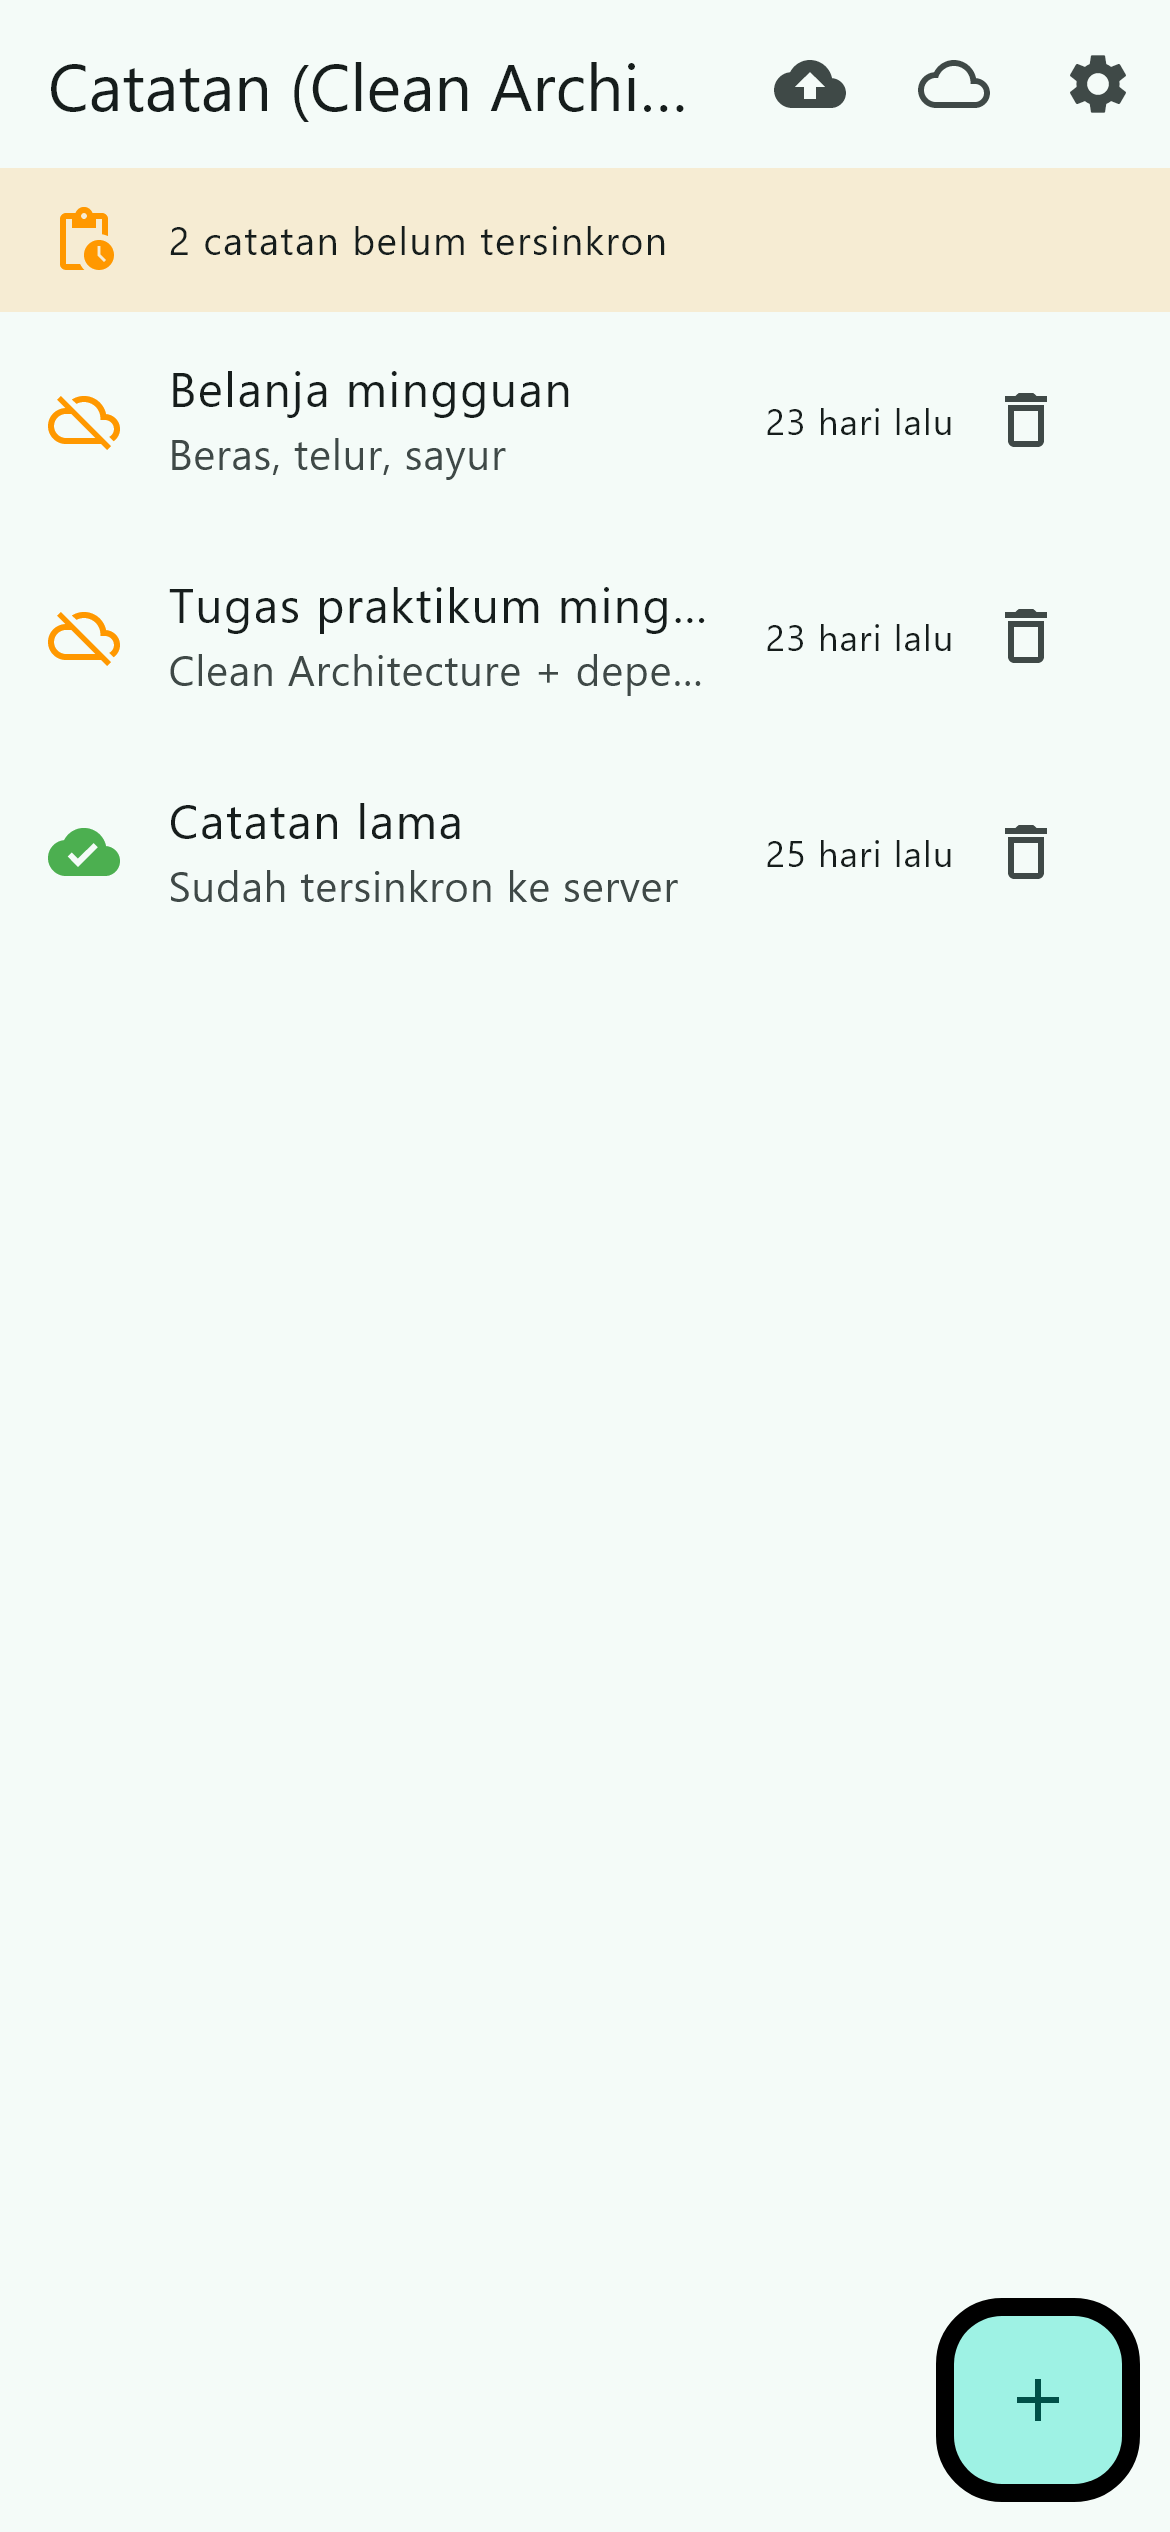
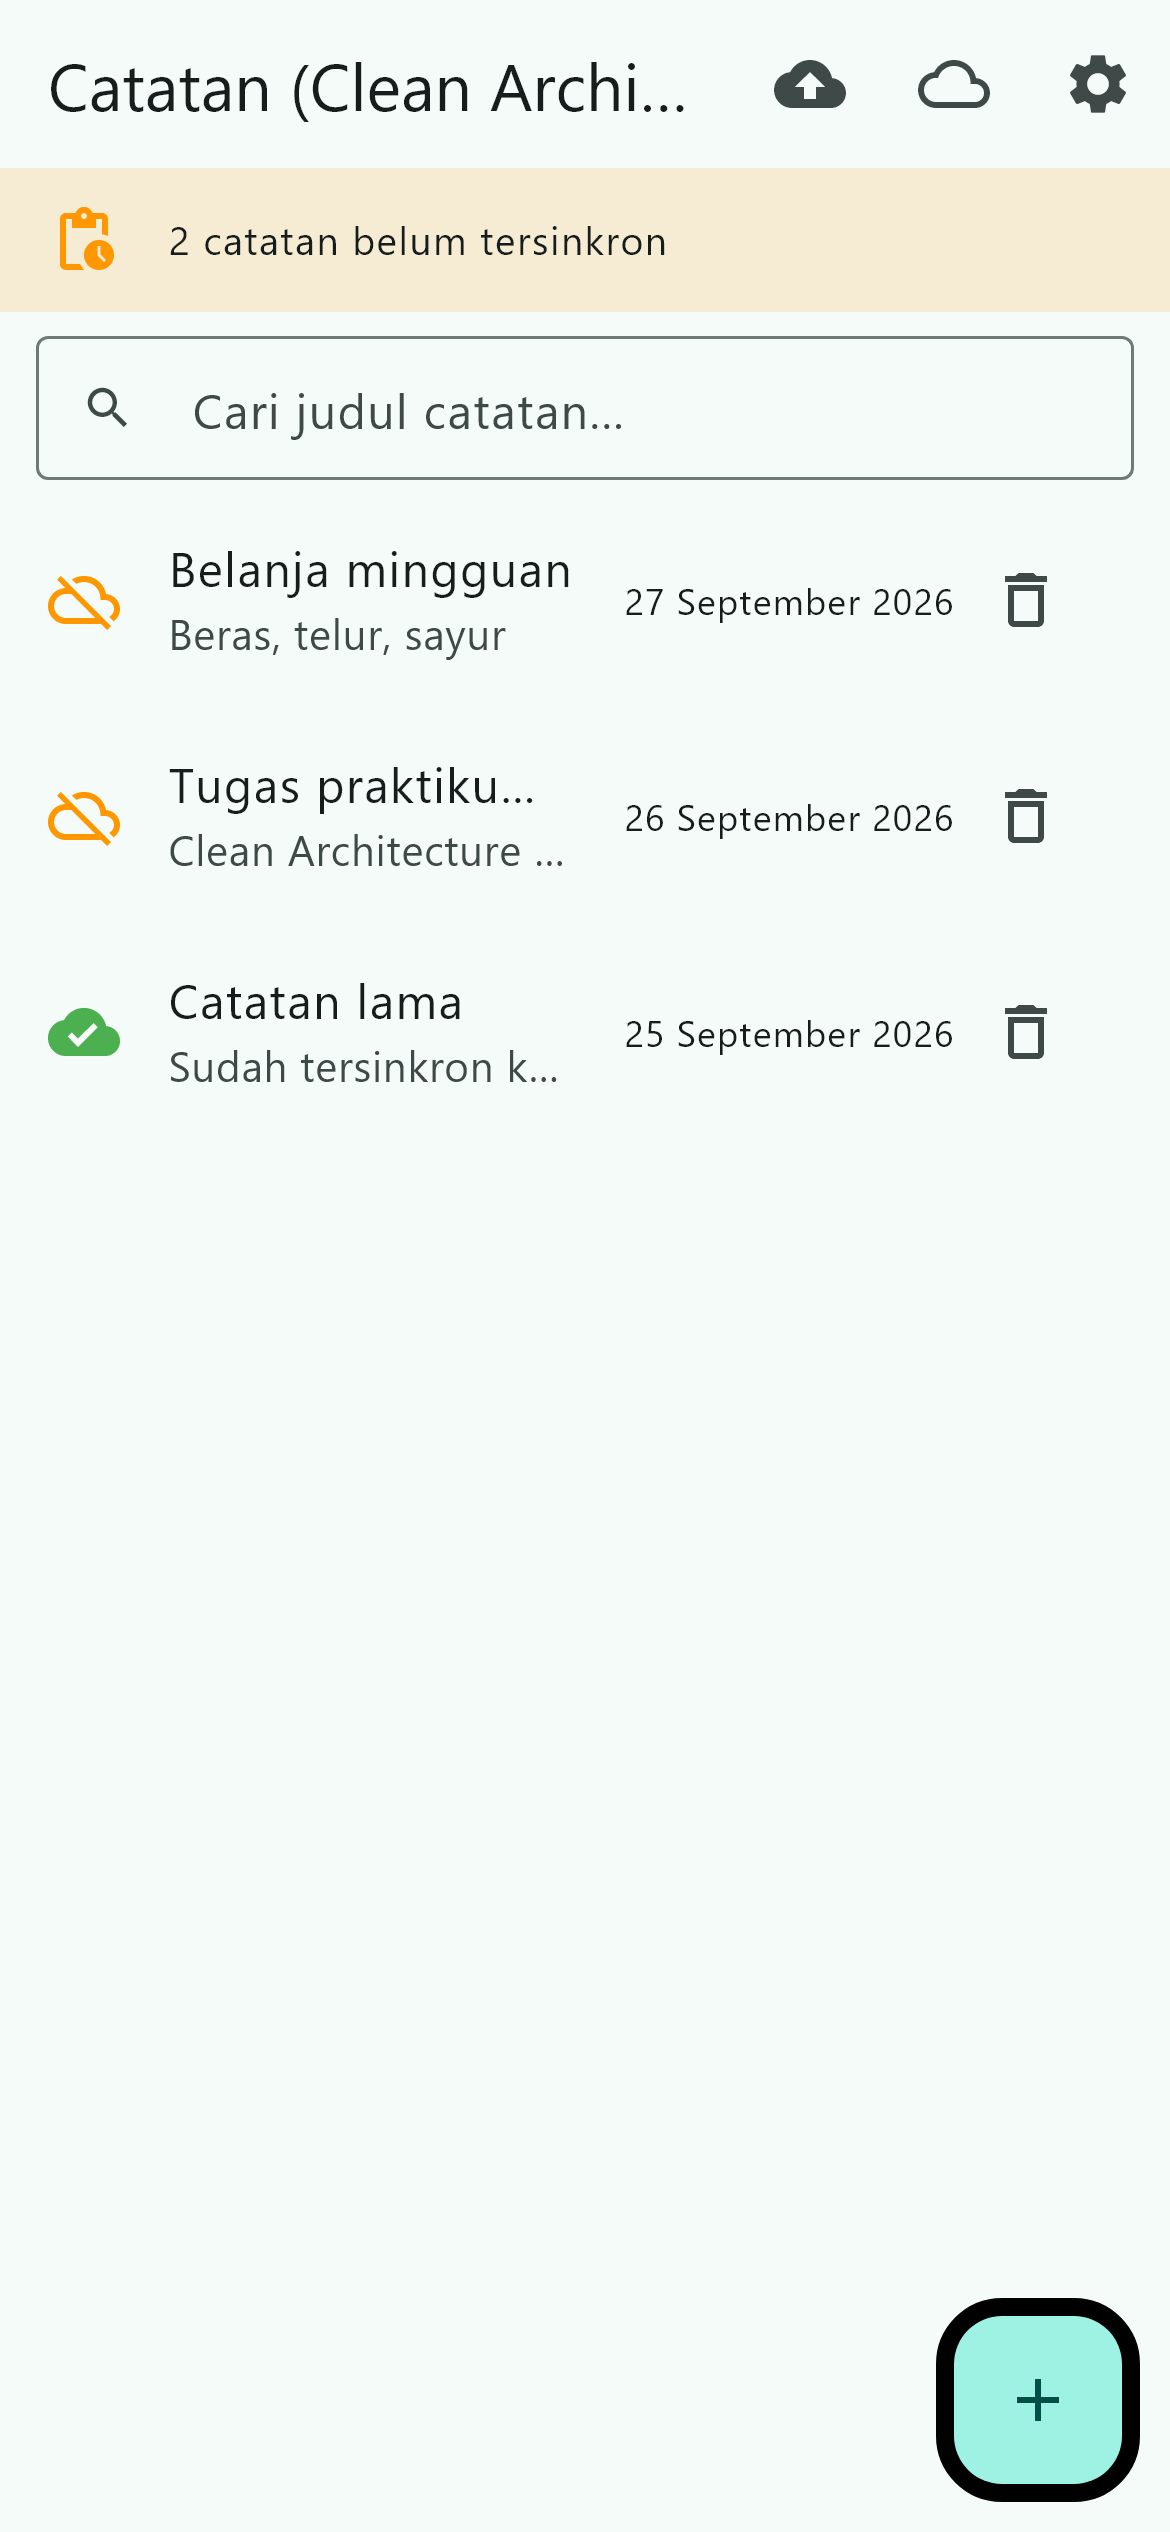
feat(notes): tambah pencarian judul + empty state + test

diff --git a/07-week-7-clean-architecture/clean_notes/lib/features/notes/presentation/pages/notes_page.dart b/07-week-7-clean-architecture/clean_notes/lib/features/notes/presentation/pages/notes_page.dart
@@ -8,13 +8,27 @@ import '../providers/notes_providers.dart';
 import '../widgets/note_tile.dart';
 
 /// Halaman catatan. Tidak ada SQL, tidak ada Dio, tidak ada parsing JSON.
-/// Halaman ini hanya membaca state dari provider.
-class NotesPage extends ConsumerWidget {
+/// Pencarian hanya mengubah state query; filter judul dijalankan use case domain.
+class NotesPage extends ConsumerStatefulWidget {
   const NotesPage({super.key});
 
   @override
-  Widget build(BuildContext context, WidgetRef ref) {
-    final notesAsync = ref.watch(notesProvider);
+  ConsumerState<NotesPage> createState() => _NotesPageState();
+}
+
+class _NotesPageState extends ConsumerState<NotesPage> {
+  final _searchController = TextEditingController();
+
+  @override
+  void dispose() {
+    _searchController.dispose();
+    super.dispose();
+  }
+
+  @override
+  Widget build(BuildContext context) {
+    final notesAsync = ref.watch(filteredNotesProvider);
+    final query = ref.watch(searchQueryProvider);
     final dirtyAsync = ref.watch(dirtyCountProvider);
     final dirtyCount = dirtyAsync.value ?? 0;
 
@@ -52,6 +66,30 @@ class NotesPage extends ConsumerWidget {
       body: Column(
         children: [
           _DirtyBanner(count: dirtyCount),
+          Padding(
+            padding: const EdgeInsets.fromLTRB(12, 8, 12, 4),
+            child: TextField(
+              controller: _searchController,
+              onChanged: (value) =>
+                  ref.read(searchQueryProvider.notifier).setQuery(value),
+              decoration: InputDecoration(
+                hintText: 'Cari judul catatan...',
+                prefixIcon: const Icon(Icons.search),
+                border: const OutlineInputBorder(),
+                isDense: true,
+                suffixIcon: query.isEmpty
+                    ? null
+                    : IconButton(
+                        icon: const Icon(Icons.clear),
+                        tooltip: 'Hapus pencarian',
+                        onPressed: () {
+                          _searchController.clear();
+                          ref.read(searchQueryProvider.notifier).clear();
+                        },
+                      ),
+              ),
+            ),
+          ),
           Expanded(
             child: notesAsync.when(
               loading: () =>
@@ -60,27 +98,31 @@ class NotesPage extends ConsumerWidget {
                 message: '$error',
                 onRetry: () => ref.invalidate(notesProvider),
               ),
-              data: (notes) => notes.isEmpty
-                  ? const EmptyView(
-                      message: 'Belum ada catatan. Tambahkan lewat tombol +.',
-                    )
-                  : ListView.builder(
-                      itemCount: notes.length,
-                      itemBuilder: (context, index) =>
-                          NoteTile(note: notes[index]),
-                    ),
+              data: (notes) {
+                if (notes.isEmpty) {
+                  return EmptyView(
+                    message: query.isEmpty
+                        ? 'Belum ada catatan. Tambahkan lewat tombol +.'
+                        : 'Tidak ada catatan yang cocok dengan "$query".',
+                  );
+                }
+                return ListView.builder(
+                  itemCount: notes.length,
+                  itemBuilder: (context, index) => NoteTile(note: notes[index]),
+                );
+              },
             ),
           ),
         ],
       ),
       floatingActionButton: FloatingActionButton(
-        onPressed: () => _showAddDialog(context, ref),
+        onPressed: () => _showAddDialog(context),
         child: const Icon(Icons.add),
       ),
     );
   }
 
-  void _showAddDialog(BuildContext context, WidgetRef ref) {
+  void _showAddDialog(BuildContext context) {
     final titleController = TextEditingController();
     final bodyController = TextEditingController();
     showDialog(

diff --git a/07-week-7-clean-architecture/clean_notes/test/notes_page_test.dart b/07-week-7-clean-architecture/clean_notes/test/notes_page_test.dart
@@ -1,0 +1,93 @@
+import 'package:clean_notes/core/failures.dart';
+import 'package:clean_notes/features/notes/domain/entities/note.dart';
+import 'package:clean_notes/features/notes/domain/repositories/note_repository.dart';
+import 'package:clean_notes/features/notes/presentation/pages/notes_page.dart';
+import 'package:clean_notes/features/notes/presentation/providers/notes_providers.dart';
+import 'package:flutter/material.dart';
+import 'package:flutter_riverpod/flutter_riverpod.dart';
+import 'package:flutter_test/flutter_test.dart';
+
+class _FakeNoteRepository implements NoteRepository {
+  _FakeNoteRepository(this.items);
+
+  final List<Note> items;
+
+  @override
+  Future<({List<Note> notes, Failure? failure})> fetchNotes() async =>
+      (notes: items, failure: null);
+
+  @override
+  Future<({Note? note, Failure? failure})> fetchNote(int id) async =>
+      (note: null, failure: null);
+
+  @override
+  Future<({Note? note, Failure? failure})> addNote({
+    required String title,
+    String body = '',
+  }) async =>
+      (note: null, failure: null);
+
+  @override
+  Future<({bool deleted, Failure? failure})> deleteNote(int id) async =>
+      (deleted: true, failure: null);
+
+  @override
+  Future<({int count, Failure? failure})> countDirty() async =>
+      (count: 0, failure: null);
+
+  @override
+  Future<({bool synced, Failure? failure})> markAllSynced() async =>
+      (synced: true, failure: null);
+}
+
+Future<void> _pump(WidgetTester tester) async {
+  await tester.pumpWidget(
+    ProviderScope(
+      overrides: [
+        noteRepositoryProvider.overrideWithValue(
+          _FakeNoteRepository([
+            Note(
+              id: 1,
+              title: 'Belanja mingguan',
+              updatedAt: DateTime(2026, 9, 27),
+            ),
+            Note(
+              id: 2,
+              title: 'Tugas kampus',
+              updatedAt: DateTime(2026, 9, 26),
+            ),
+          ]),
+        ),
+      ],
+      child: const MaterialApp(home: NotesPage()),
+    ),
+  );
+  await tester.pumpAndSettle();
+}
+
+void main() {
+  testWidgets('search menampilkan hasil yang cocok', (tester) async {
+    await _pump(tester);
+
+    expect(find.text('Belanja mingguan'), findsOneWidget);
+    expect(find.text('Tugas kampus'), findsOneWidget);
+
+    await tester.enterText(find.byType(TextField), 'belanja');
+    await tester.pumpAndSettle();
+
+    expect(find.text('Belanja mingguan'), findsOneWidget);
+    expect(find.text('Tugas kampus'), findsNothing);
+  });
+
+  testWidgets('search tanpa hasil menampilkan empty state', (tester) async {
+    await _pump(tester);
+
+    await tester.enterText(find.byType(TextField), 'zzz-tak-ada');
+    await tester.pumpAndSettle();
+
+    expect(
+      find.text('Tidak ada catatan yang cocok dengan "zzz-tak-ada".'),
+      findsOneWidget,
+    );
+  });
+}

diff --git a/07-week-7-clean-architecture/clean_notes/lib/features/notes/presentation/providers/notes_providers.dart b/07-week-7-clean-architecture/clean_notes/lib/features/notes/presentation/providers/notes_providers.dart
@@ -8,6 +8,7 @@ import '../../domain/repositories/note_repository.dart';
 import '../../domain/usecases/add_note.dart';
 import '../../domain/usecases/delete_note.dart';
 import '../../domain/usecases/get_notes.dart';
+import '../../domain/usecases/search_notes.dart';
 import '../../domain/usecases/sync_notes.dart';
 
 // ===== Data layer: satu-satunya tempat instantiate implementasi =====
@@ -31,6 +32,8 @@ final deleteNoteProvider = Provider<DeleteNote>((ref) {
 final syncNotesProvider = Provider<SyncNotes>((ref) {
   return SyncNotes(ref.watch(noteRepositoryProvider));
 });
+
+final searchNotesProvider = Provider<SearchNotes>((ref) => const SearchNotes());
 
 // ===== Presentation layer: state untuk UI =====
 
@@ -86,6 +89,30 @@ final notesProvider = AsyncNotifierProvider<NotesNotifier, List<Note>>(
   NotesNotifier.new,
   retry: (retryCount, error) => null,
 );
+
+/// Query pencarian (state UI).
+final searchQueryProvider =
+    NotifierProvider<SearchQueryNotifier, String>(SearchQueryNotifier.new);
+
+class SearchQueryNotifier extends Notifier<String> {
+  @override
+  String build() => '';
+
+  void setQuery(String value) => state = value;
+
+  void clear() => state = '';
+}
+
+/// Daftar catatan yang sudah difilter. Diturunkan dari notesProvider,
+/// sehingga tidak ada query database ulang saat pengguna mengetik.
+final filteredNotesProvider = Provider<AsyncValue<List<Note>>>((ref) {
+  final notesAsync = ref.watch(notesProvider);
+  final query = ref.watch(searchQueryProvider);
+  final search = ref.watch(searchNotesProvider);
+  return notesAsync.whenData(
+    (notes) => search(notes: notes, query: query),
+  );
+});
 
 /// Jumlah catatan yang belum tersinkron (badge antrean).
 final dirtyCountProvider = FutureProvider<int>((ref) async {

diff --git a/07-week-7-clean-architecture/clean_notes/test/screenshots_test.dart b/07-week-7-clean-architecture/clean_notes/test/screenshots_test.dart
@@ -214,4 +214,46 @@ void main() {
       'after_settings.png',
     );
   }, skip: !_generate);
+
+  testWidgets('after - search hasil', (tester) async {
+    final container = ProviderContainer(
+      overrides: [
+        noteRepositoryProvider
+            .overrideWithValue(_FakeNoteRepository(items: _notes)),
+      ],
+    );
+    addTearDown(container.dispose);
+
+    await tester.binding.setSurfaceSize(const Size(390, 844));
+    addTearDown(() => tester.binding.setSurfaceSize(null));
+    await tester.pumpWidget(_app(container, const NotesPage()));
+    await tester.pumpAndSettle();
+    await tester.enterText(find.byType(TextField), 'belanja');
+    await tester.pumpAndSettle();
+    await expectLater(
+      find.byType(MaterialApp),
+      matchesGoldenFile('../../screenshots/after_search.png'),
+    );
+  }, skip: !_generate);
+
+  testWidgets('after - search empty state', (tester) async {
+    final container = ProviderContainer(
+      overrides: [
+        noteRepositoryProvider
+            .overrideWithValue(_FakeNoteRepository(items: _notes)),
+      ],
+    );
+    addTearDown(container.dispose);
+
+    await tester.binding.setSurfaceSize(const Size(390, 844));
+    addTearDown(() => tester.binding.setSurfaceSize(null));
+    await tester.pumpWidget(_app(container, const NotesPage()));
+    await tester.pumpAndSettle();
+    await tester.enterText(find.byType(TextField), 'zzz-tak-ada');
+    await tester.pumpAndSettle();
+    await expectLater(
+      find.byType(MaterialApp),
+      matchesGoldenFile('../../screenshots/after_search_empty.png'),
+    );
+  }, skip: !_generate);
 }

diff --git a/07-week-7-clean-architecture/clean_notes/test/search_filter_test.dart b/07-week-7-clean-architecture/clean_notes/test/search_filter_test.dart
@@ -1,0 +1,37 @@
+import 'package:clean_notes/features/notes/domain/entities/note.dart';
+import 'package:clean_notes/features/notes/domain/usecases/search_notes.dart';
+import 'package:flutter_test/flutter_test.dart';
+
+void main() {
+  final notes = [
+    Note(id: 1, title: 'Belanja mingguan', updatedAt: DateTime(2026, 9, 27)),
+    Note(id: 2, title: 'BELANJA bulanan', updatedAt: DateTime(2026, 9, 26)),
+    Note(id: 3, title: 'Tugas kampus', updatedAt: DateTime(2026, 9, 25)),
+  ];
+
+  test('filter abaikan huruf besar/kecil', () {
+    expect(filterNotes(notes, 'belanja'), hasLength(2));
+    expect(filterNotes(notes, 'BeLaNjA'), hasLength(2));
+  });
+
+  test('query dengan spasi di tepi tetap cocok', () {
+    final result = const SearchNotes()(notes: notes, query: '  kampus  ');
+    expect(result, hasLength(1));
+    expect(result.first.title, 'Tugas kampus');
+  });
+
+  test('query kosong mengembalikan semua catatan', () {
+    expect(filterNotes(notes, ''), hasLength(3));
+    expect(filterNotes(notes, '   '), hasLength(3));
+  });
+
+  test('query tak cocok mengembalikan list kosong (empty state)', () {
+    expect(filterNotes(notes, 'zzz-tak-ada'), isEmpty);
+  });
+
+  test('use case mendelegasikan ke fungsi murni', () {
+    final result = const SearchNotes()(notes: notes, query: 'tugas');
+    expect(result, hasLength(1));
+    expect(result.first.id, 3);
+  });
+}

diff --git a/07-week-7-clean-architecture/clean_notes/lib/features/notes/domain/usecases/search_notes.dart b/07-week-7-clean-architecture/clean_notes/lib/features/notes/domain/usecases/search_notes.dart
@@ -1,0 +1,21 @@
+import '../entities/note.dart';
+
+/// Fungsi murni: filter catatan berdasarkan judul.
+/// - case-insensitive
+/// - spasi di awal/akhir diabaikan
+/// - query kosong mengembalikan semua catatan
+List<Note> filterNotes(List<Note> notes, String query) {
+  final q = query.trim().toLowerCase();
+  if (q.isEmpty) return notes;
+  return notes.where((note) => note.title.toLowerCase().contains(q)).toList();
+}
+
+/// Use case pencarian: aturan filter tinggal di domain (murni, bisa diuji
+/// tanpa widget/database).
+class SearchNotes {
+  const SearchNotes();
+
+  List<Note> call({required List<Note> notes, required String query}) {
+    return filterNotes(notes, query);
+  }
+}

diff --git a/07-week-7-clean-architecture/clean_notes/lib/routes.dart b/07-week-7-clean-architecture/clean_notes/lib/routes.dart
@@ -3,6 +3,7 @@ class AppRoutes {
   static const home = '/';
   static const settings = '/settings';
   static const announcements = '/announcements';
+  static const assistant = '/assistant';
   static const notePattern = '/notes/:id';
 
   static String note(int id) => '/notes/$id';
